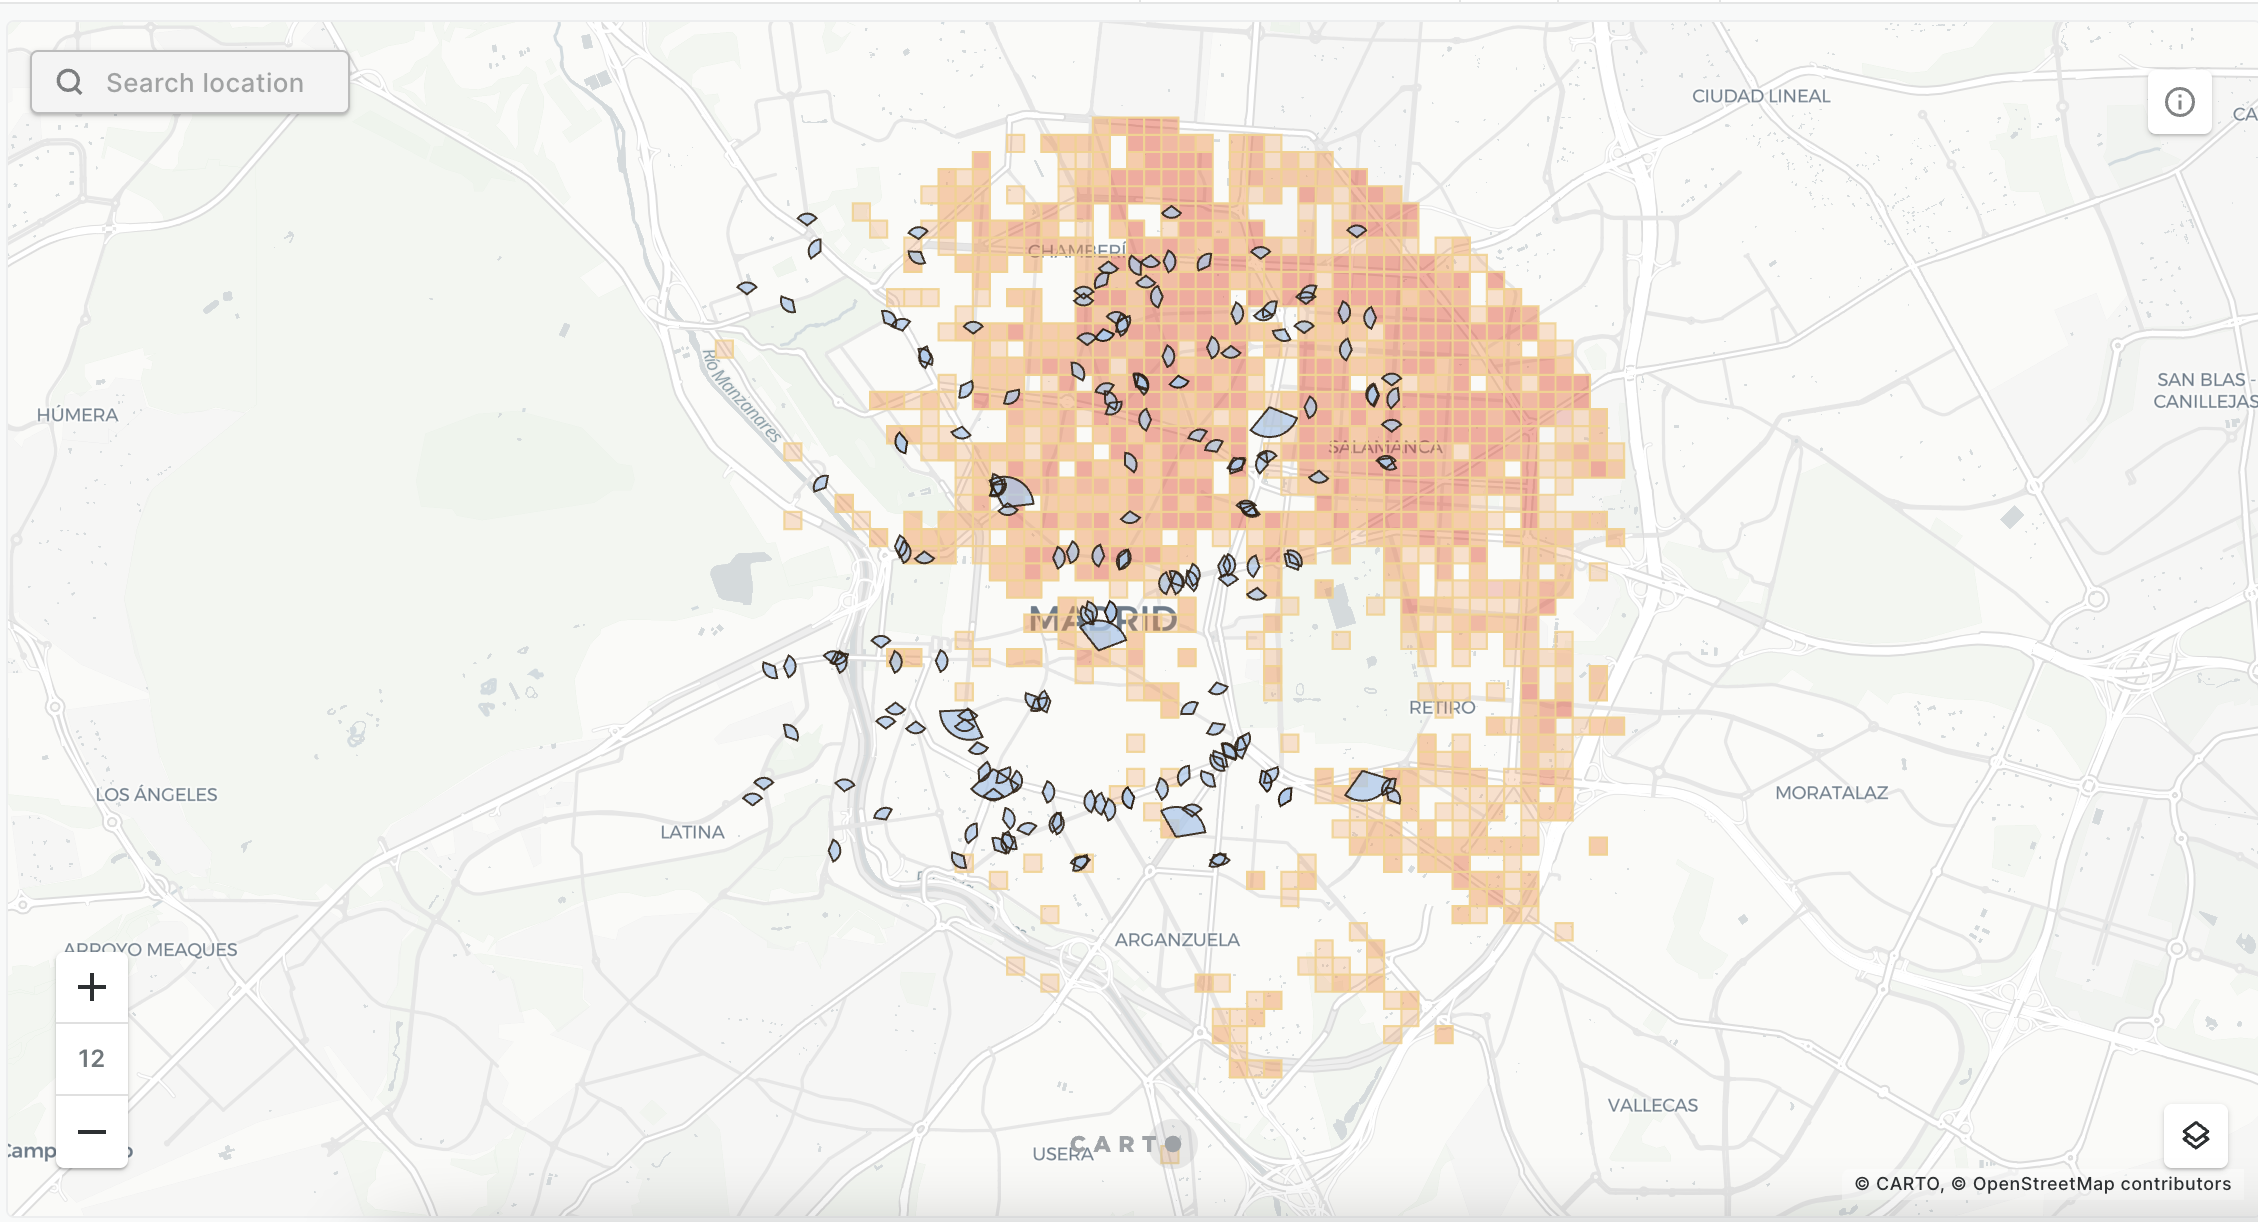
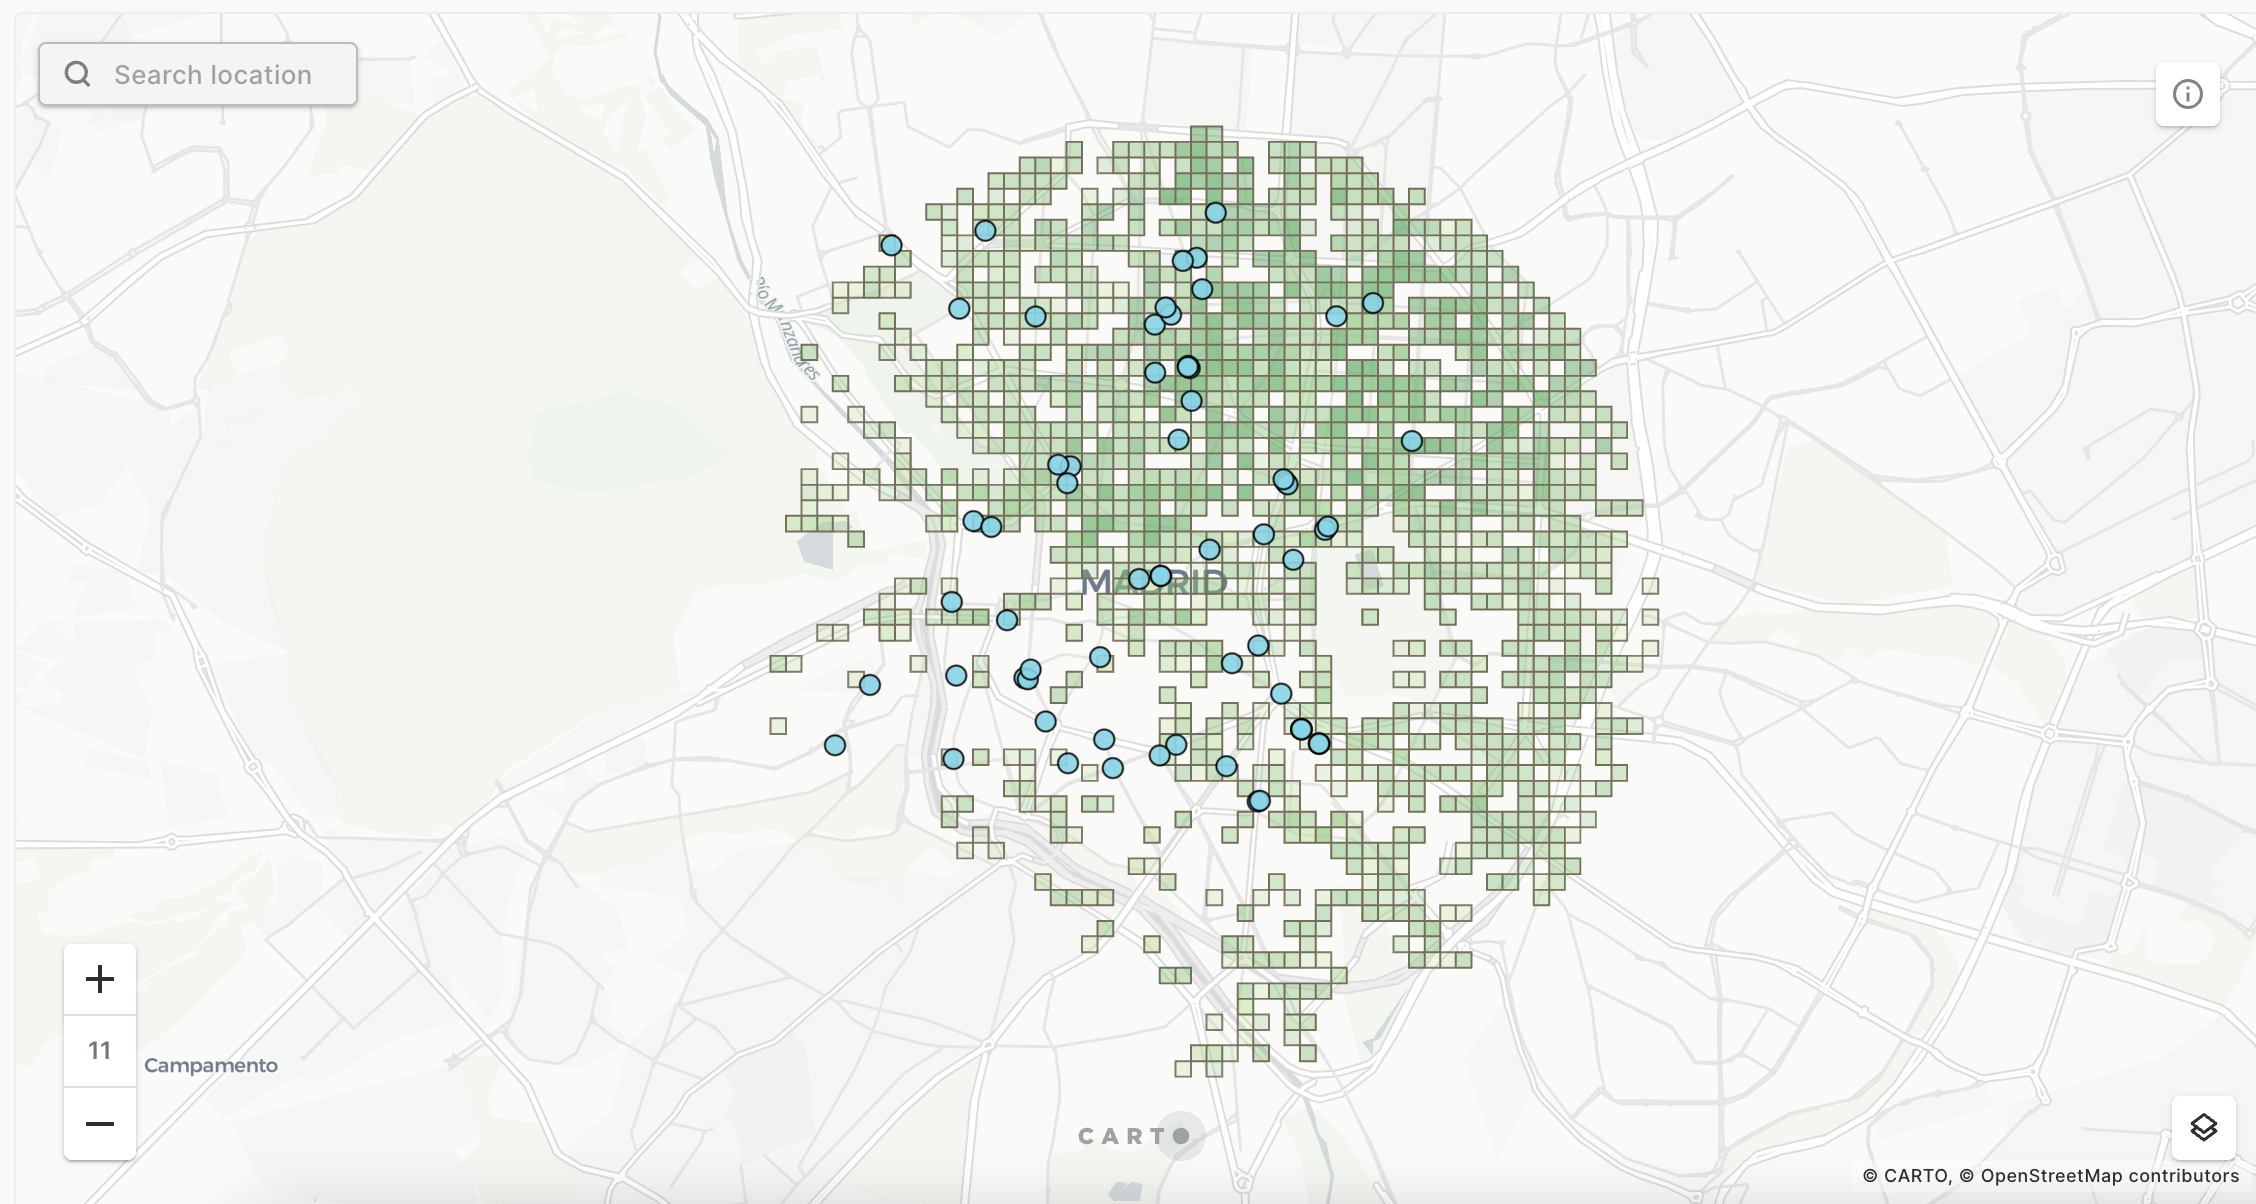
ooh_tutorial_coverage_analysis

diff --git a/app/content/carto-user-manual/tutorials/identify_panels_using_coverage_feedback.md b/app/content/carto-user-manual/tutorials/identify_panels_using_coverage_feedback.md
@@ -1,6 +1,6 @@
 ---
-title: "Identifying Out-Of-Home panels using coverage information"
-description: "We find the OOH panels that best match the forecasted coverage of a target audience."
+title: "Shortlisting OOH panels using coverage information"
+description: "In this tutorial we find the Out-Of-Home panels in Madrid that best match the forecasted coverage of a target audience. We visualize coverage using quadints that represent visitor volumes"
 image: "/img/tutorials/ooh_coverage_analysis.png"
 type: tutorials
 date: "2022-07-20"
@@ -10,12 +10,12 @@ date: "2022-07-20"
 #     - out-of-home
 ---
 
-## Identifying Out-Of-Home panels using coverage information
+## Shortlisting OOH panels using coverage information
 
 **Context**
 
 A common use case of the Out-of-home advertising industry is coverage analysis, which is the identification of the best panels for a campaign based on forecasted audience visits. The use case can be useful both during campaign planning (select panels) and campaign monitoring and otpimization (adjust the panel inventory allocated to the campaign)
-In this tutorial we are showcasing an example where we vizualize forecasted visits of a certain audience on a heatmap, overlay with the visibility polygons of panel inventory, and select the best area to focus on bases on the results. 
+In this tutorial we are showcasing an example where we vizualize forecasted visits of a certain audience on a heatmap, overlay with the point locations of panel inventory, and select the best area to focus on bases on the results. 
 
 **Steps to reproduce**
 
@@ -33,18 +33,18 @@ In this tutorial we are showcasing an example where we vizualize forecasted visi
 
 3. Let´s first explore a table which includes data for visits and visitors for different locations in the central part of the Madrid metropolitan area, including the visitors´ sociodemographic characteristics.
 
-    Go to the Data Explorer, in the CARTO Datawarehouse, in the "demo_tables_ooh_onboarding" folder. Click on the "ooh_madrid_visitors_and_visits" table. and then "Data Preview" tab. You will see we have a Point geometry dataset visits, visitors and associated sociodemographics, for the weekdays of the first week of the year. 
+    Go to the Data Explorer, in the CARTO Datawarehouse, in the "demo_tables" folder. Click on the "madrid_est_pedestrian_traffic" table, and then "Data Preview" tab. You will see we have a Point geometry dataset visits, visitors and associated sociodemographics, for the weekdays of the first week of the year. 
 
     ![Map explore data table](/img/cloud-native-workspace/tutorials/tutorial16_map_ooh_coverage_visitors_table.png)
 
-4. To begin our analysis we will need to convert our point geometries to quadbins, so that we can vizualize the differences more clearly.
+4. To begin our analysis we will need to convert our point geometries to quadints, so that we can vizualize the differences more clearly.
 
     Click on the "Add Source from..." button and select "Custom Query (SQL)".  Select "Type your own query" and then click on "Add Source". Once you view the SQL editor paste the following and run the query:
 
     ```sql
     SELECT geoid, `carto-un`.carto.QUADINT_BOUNDARY(geoid) geom, 
     FROM (
-        SELECT distinct geoid FROM `cartodb-on-gcp-pm-team.antonis.sample__T1_laborable_eng`
+        SELECT distinct geoid FROM `carto-demo-data.demo_tables.madrid_est_pedestrian_traffic`
     )
     ```
 
@@ -59,7 +59,7 @@ In this tutorial we are showcasing an example where we vizualize forecasted visi
 
     ```sql
     SELECT geoid, geom, gender, age, income, visitors, LOG(visitors) as log_visitors
-    FROM `cartodb-on-gcp-pm-team.antonis.ooh_madrid_visitors_and_visits`
+    FROM `carto-demo-data.demo_tables.madrid_est_pedestrian_traffic`
     WHERE visitors > 0
     ```
     Let´s rename this layer "Pedestrian visitors".
@@ -67,7 +67,7 @@ In this tutorial we are showcasing an example where we vizualize forecasted visi
     ![Map import pedestrian visitor data](/img/cloud-native-workspace/tutorials/tutorial16_map_ooh_coverage_pedestrian_visitors.png)
 
 
-6. Next, let´s combine the two sources to create an quadbin layer with all the information of interest. Click on the 3 dots on the right of the first source we have created (the Area of Study source), selecting "Add SQL analysis". Select "Add columns from second source" and click on Continue.
+6. Next, let´s combine the two sources to create an quadint layer with all the information of interest. Click on the 3 dots on the right of the first source we have created (the Area of Study source), selecting "Add SQL analysis". Select "Add columns from second source" and click on Continue.
 
    ![Map select UI analysis to merge two sources](/img/cloud-native-workspace/tutorials/tutorial16_map_ooh_coverage_merge_tables.png)
 
@@ -110,7 +110,7 @@ In this tutorial we are showcasing an example where we vizualize forecasted visi
 
    ![Map visitors tooltip](/img/cloud-native-workspace/tutorials/tutorial16_map_ooh_coverage_visitors_tooltip.png)
 
-13. Let´s now import another layer, the panels within the same area, to understand where we could achieve coverage. Go to "Add source from...", choose the CARTO Datawarehouse, go to the "demo data" folder, then "data_tables" and select the "ooh_panels_madrid" table. Import the table into the map and style as seen below. 
+13. Let´s now import another layer, the panels within the same area, to understand where we could achieve coverage. Go to "Add source from...", choose the CARTO Datawarehouse, go to the "demo data" folder, then "data_tables" and select the "madrid_ooh_panels" table. Import the table into the map and style as seen below. 
 
     ![Map panel visibility polygons](/img/cloud-native-workspace/tutorials/tutorial16_map_ooh_coverage_panels_madrid.png)
 
@@ -126,7 +126,7 @@ In this tutorial we are showcasing an example where we vizualize forecasted visi
 
     ![Map panel audience](/img/cloud-native-workspace/tutorials/tutorial16_map_ooh_coverage_target_audience.png)    
 
-17. But let´s say we have a cutoff of visitors within the selected period we would consider. Let´s create a new Histogram widget, to filter quadbins based on the volumes of visitors attracted. 
+17. But let´s say we have a cutoff of visitors within the selected period we would consider. Let´s create a new Histogram widget, to filter quadints based on the volumes of visitors attracted. 
 
     Style the widget as seen below. Place the widget at the top of the widgets´ list.
 
